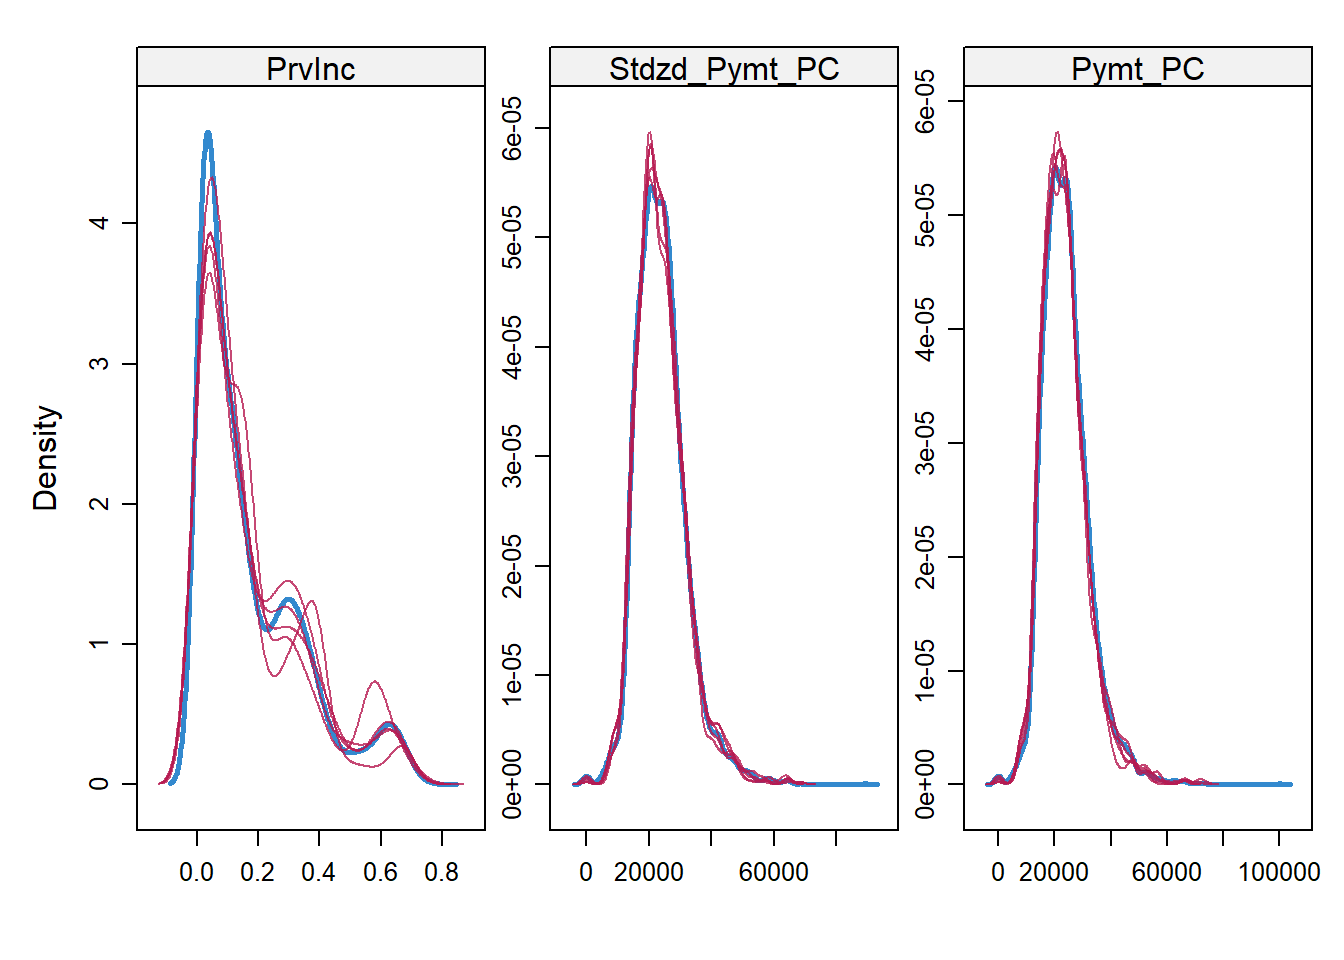
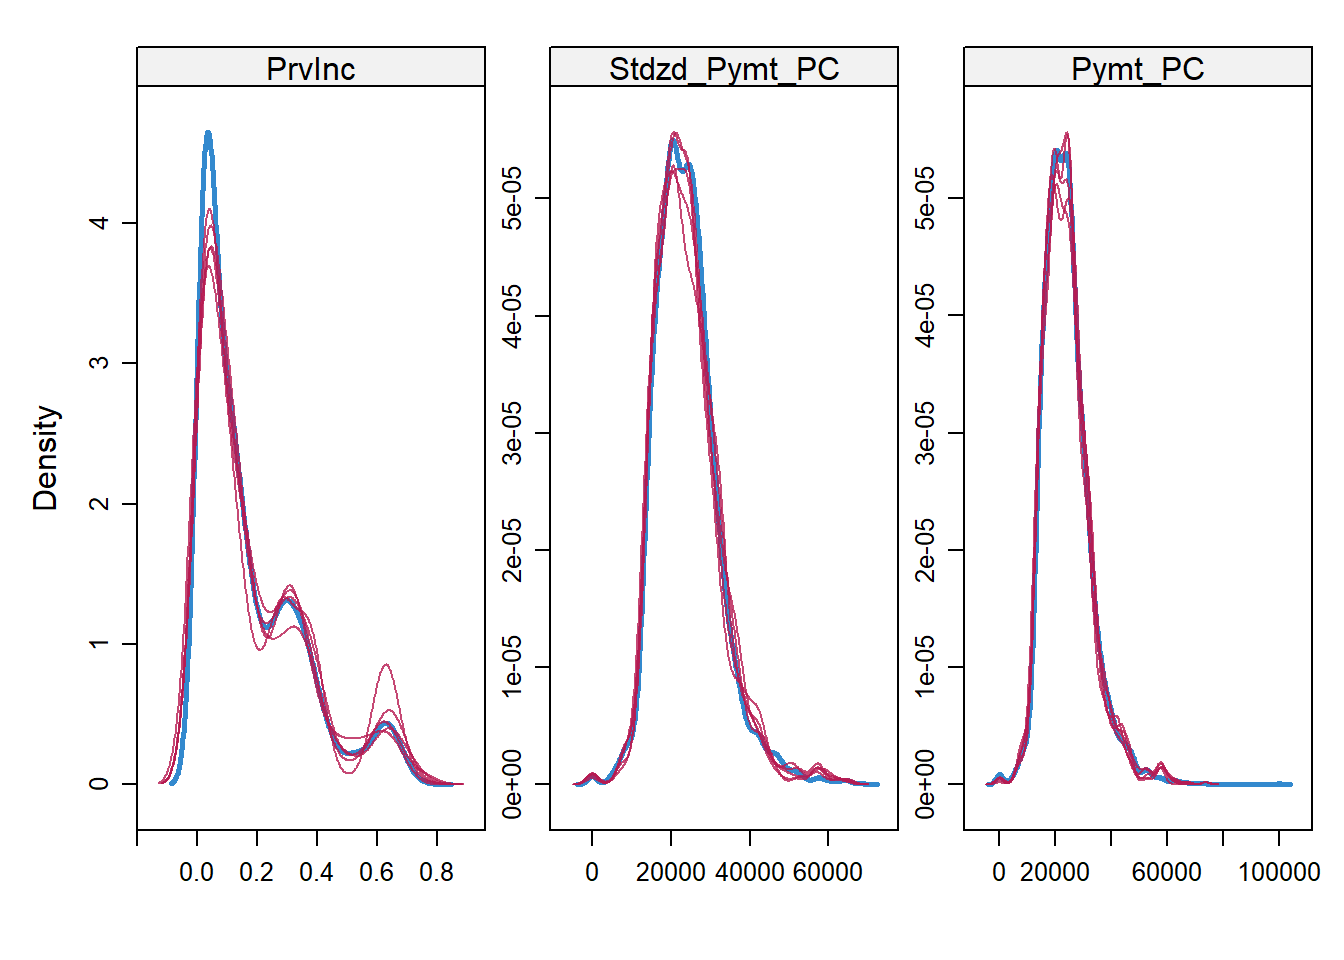
Trying to fix failed...

diff --git a/index.html b/index.html
@@ -7,7 +7,7 @@
 <meta name="viewport" content="width=device-width, initial-scale=1.0, user-scalable=yes">
 
 <meta name="author" content="Natalie Belford, Benjamin Brustad, Jasmine Hyler">
-<meta name="dcterms.date" content="2023-07-23">
+<meta name="dcterms.date" content="2023-07-24">
 
 <title>Missing Data and Imputation</title>
 <style>
@@ -119,7 +119,7 @@ div.csl-indent {
     <div>
     <div class="quarto-title-meta-heading">Published</div>
     <div class="quarto-title-meta-contents">
-      <p class="date">July 23, 2023</p>
+      <p class="date">July 24, 2023</p>
     </div>
   </div>
   
@@ -165,9 +165,10 @@ div.csl-indent {
 <p>The dataset used to conduct the below Missing Imputation methods was adapted from the most recent study conducted by the U.S. Department of Health &amp; Human Services which examined 21 specific chronic illnesses of Medicare beneficiaries <span class="citation" data-cites="CMMS">(<a href="#ref-CMMS" role="doc-biblioref">Medicare &amp; Medicaid Services 2018</a>)</span>.</p>
 <p>The Multiple Imputation (MI) approach is used to correct the issue of imputing multiple times the missing values from the predictive distribution of the missing given observed data. “Next, the analysis model is fitted to each ‘complete’ data set and results combined using Rubin’s rules” <span class="citation" data-cites="k13">(<a href="#ref-k13" role="doc-biblioref">Kang 2013</a>)</span>. Bias can be reduced and efficiency increased by using in the imputation step the auxiliary variables (predictive of missing values but not in the substantive model). The MI method is good but is not appropriate for handling all missing data records.</p>
 <p>There is a three-step process for conducting a statistical analysis of MI. The stages are 1) Selecting independent variables that may help impute variables with missing data, 2) Noting the chosen statistical method, estimating in each of the imputed datasets the association of interest, and 3) Combining using Rubin’s rules the association measures from each imputed dataset <span class="citation" data-cites="r76">(<a href="#ref-r76" role="doc-biblioref">Rubin 1976</a>)</span>. To combine, we use the following equations for Standard Error(SE), Arithmetic Average(W) and the Variability of the estimates(B), where t is a particular dataset, m is the total amount of imputed datasets, <span class="math inline">\(\hat{\theta}\)</span> and <span class="math inline">\(\bar{\theta_t}\)</span> are the average parameter estimate and the parameter estimate for a particular dataset, respectively. <span class="citation" data-cites="oap18">(<a href="#ref-oap18" role="doc-biblioref">Osman, Abu-Mahfouz, and Page 2018</a>)</span></p>
-<p><span class="math display">\[
-\begin{align*} W=&amp;\frac {\sum \left ({{SE}_{t} }\right)^{2}}{m} \tag{1}\\ B=&amp;\frac {\sum \left ({\hat {\theta }_{t}-\bar {\theta } }\right)^{2}}{m-1} \tag{2}\\ SE=&amp;\sqrt {W+B+\frac {B}{m}}\tag{3}\end{align*}
-\]</span></p>
+<p>$$ W=}{m} </p>
+<p>B=}{m-1} </p>
+<p>SE= </p>
+<p>$$</p>
 <p><span class="citation" data-cites="ljlmw14">(<a href="#ref-ljlmw14" role="doc-biblioref">Little et al. 2014</a> )</span> provide exceptional detail on how to alleviate missing data using full-information maximum likelihood and multiple imputations followed by a presentation of 3-form planned missing design to include multiform questionnaire protocols, 2-method measurement models, and wave-missing longitudinal designs.</p>
 <p>TARMOS consists of three main steps with a series of subsets within each step. The steps are as follows. Step 1: Plan the analysis, step 2: Conduct the preplanned analysis, step 3: Report the analysis <span class="citation" data-cites="ltclbghc21">(<a href="#ref-ltclbghc21" role="doc-biblioref">Lee et al. 2021</a>)</span>. The framework’s emphasis is on transparency. All expectations of the analysis and the research interests should be disclosed.</p>
 <p>One proposed method which we deem computationally feasible for this project is multiple imputation <span class="citation" data-cites="ljlmw14">(<a href="#ref-ljlmw14" role="doc-biblioref">Little et al. 2014</a> )</span>. The methodology includes performing single imputation with multiple data sets, analyzing and computing the error of each set, and combining the data into a single, final data set.</p>
@@ -639,15 +640,15 @@ div.csl-indent {
 </div>
 <div class="cell-output cell-output-stdout">
 <pre><code>     PrvInc Pymt_PC Stdzd_Pymt_PC     
-2712      1       1             1    0
-303       1       1             0    1
-300       1       0             1    1
-756       1       0             0    2
-520       0       1             1    1
-60        0       1             0    2
-56        0       0             1    2
-207       0       0             0    3
-        843    1319          1326 3488</code></pre>
+2711      1       1             1    0
+310       1       1             0    1
+291       1       0             1    1
+723       1       0             0    2
+543       0       1             1    1
+55        0       1             0    2
+47        0       0             1    2
+234       0       0             0    3
+        879    1295          1322 3496</code></pre>
 </div>
 </div>
 <p>Additionally, we ran the miss Forest package in R. We ran the package followed by a summary to gain a better quantitative view. Below are the code, results, and figure.</p>
@@ -671,12 +672,12 @@ div.csl-indent {
 <div class="cell-output cell-output-stdout">
 <pre><code>     PrvInc       Stdzd_Pymt_PC      Pymt_PC      
  Min.   :0.0000   Min.   :    0   Min.   :     0  
- 1st Qu.:0.0388   1st Qu.:18568   1st Qu.: 18467  
- Median :0.1098   Median :23194   Median : 23084  
- Mean   :0.1716   Mean   :24007   Mean   : 24091  
- 3rd Qu.:0.2732   3rd Qu.:28095   3rd Qu.: 28344  
- Max.   :0.7588   Max.   :89235   Max.   :100028  
- NA's   :843      NA's   :1326    NA's   :1319    </code></pre>
+ 1st Qu.:0.0381   1st Qu.:18655   1st Qu.: 18387  
+ Median :0.1110   Median :23300   Median : 22992  
+ Mean   :0.1723   Mean   :24075   Mean   : 24055  
+ 3rd Qu.:0.2753   3rd Qu.:28192   3rd Qu.: 28260  
+ Max.   :0.7588   Max.   :68567   Max.   :100028  
+ NA's   :879      NA's   :1322    NA's   :1295    </code></pre>
 </div>
 </div>
 <div class="cell">
